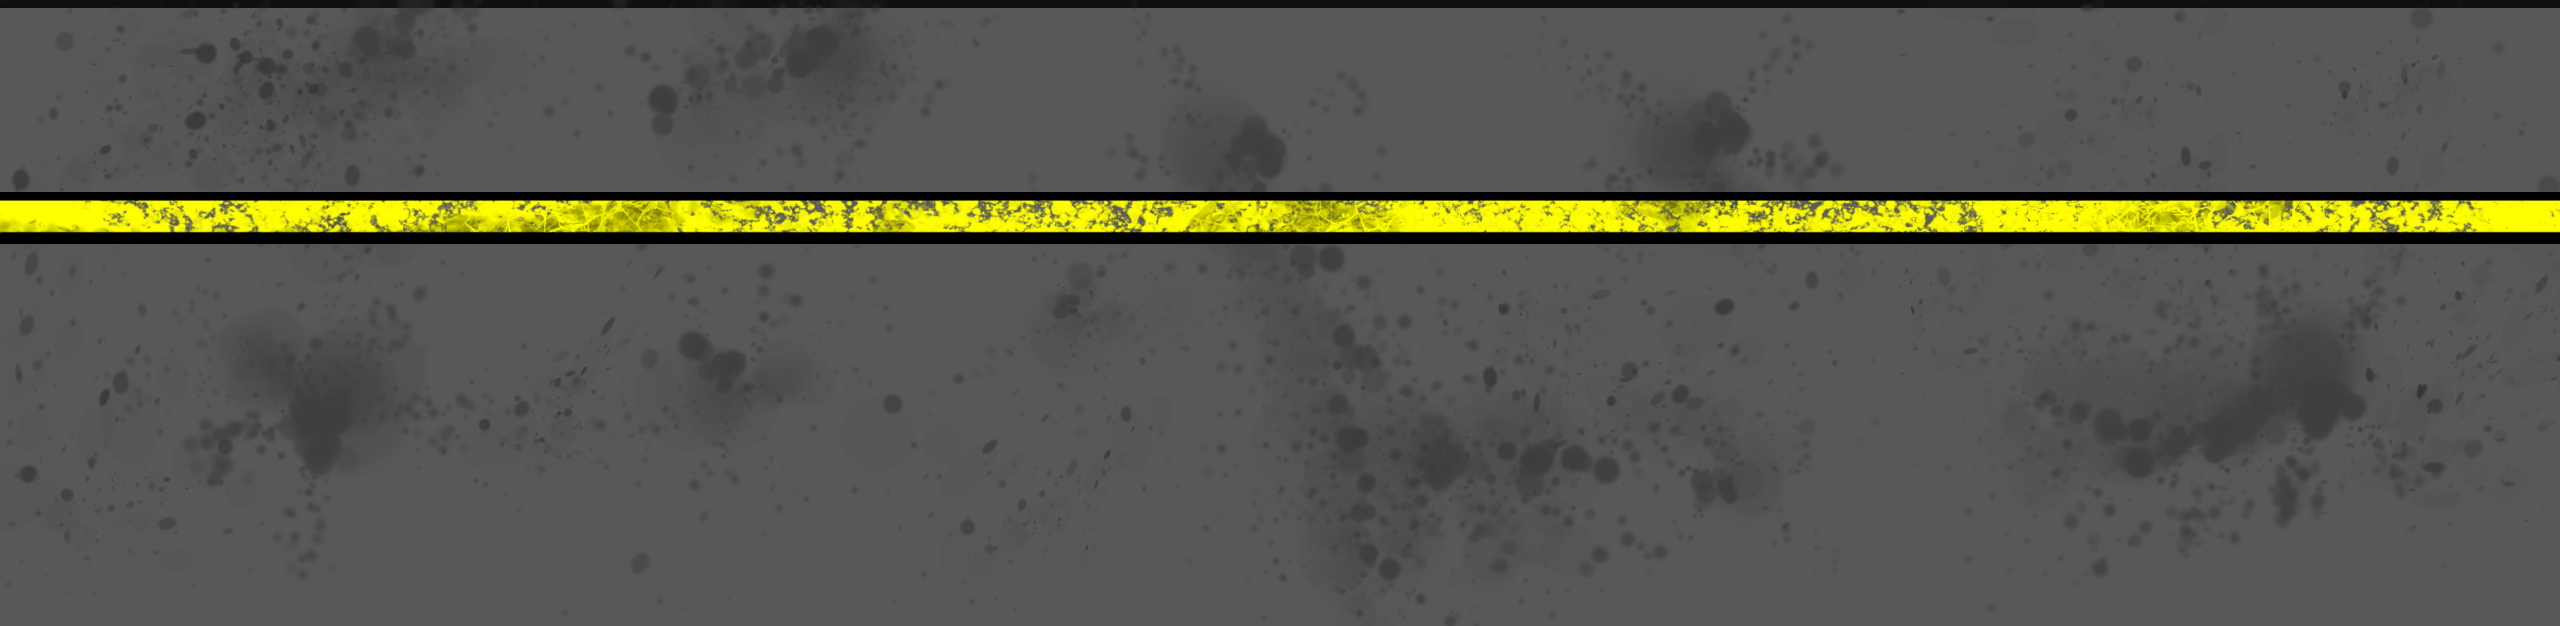
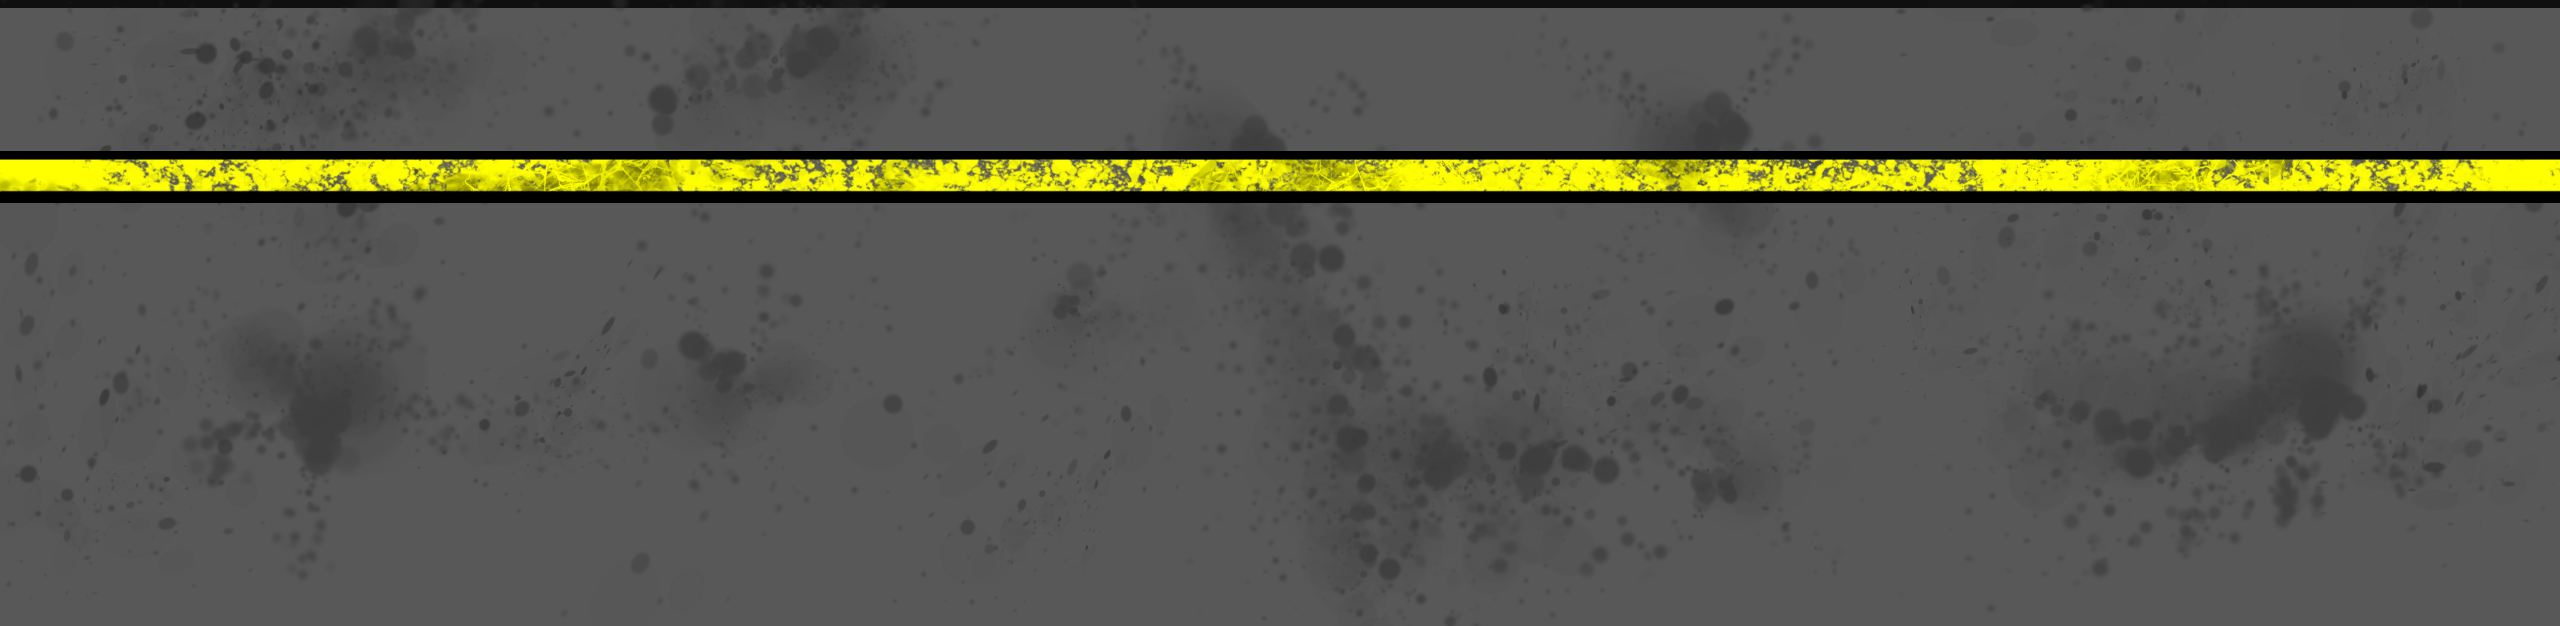
didn't like the background

Changed region(s): [[0.0, 0.2428, 1.0, 0.3946]]

diff --git a/src/config.js b/src/config.js
@@ -10,7 +10,7 @@ export const Config = {
     background: "background"
   },
   scene: {
-    groundY: 500,
+    groundY: 470,
     backgroundY: 370
   }
 };
